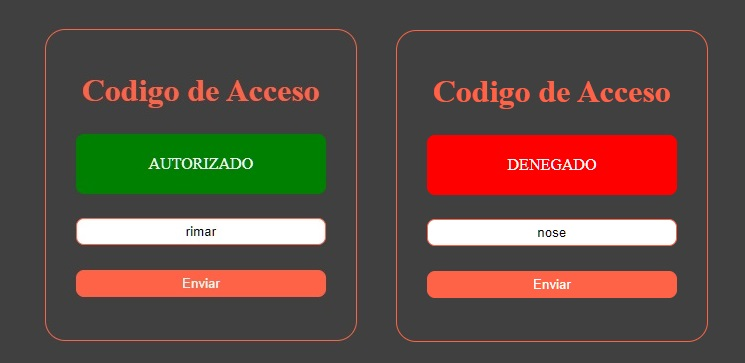
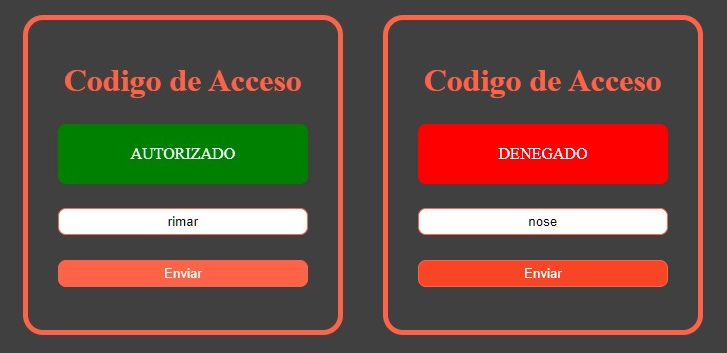
retoque estilo

diff --git a/assets/css/style.css b/assets/css/style.css
@@ -13,7 +13,7 @@ body {
 .container {
   width: 250px;
   height: 250px;
-  border: 1px solid tomato;
+  border: 5px solid tomato;
   border-radius: 20px;
   padding: 30px;
   display: flex;
